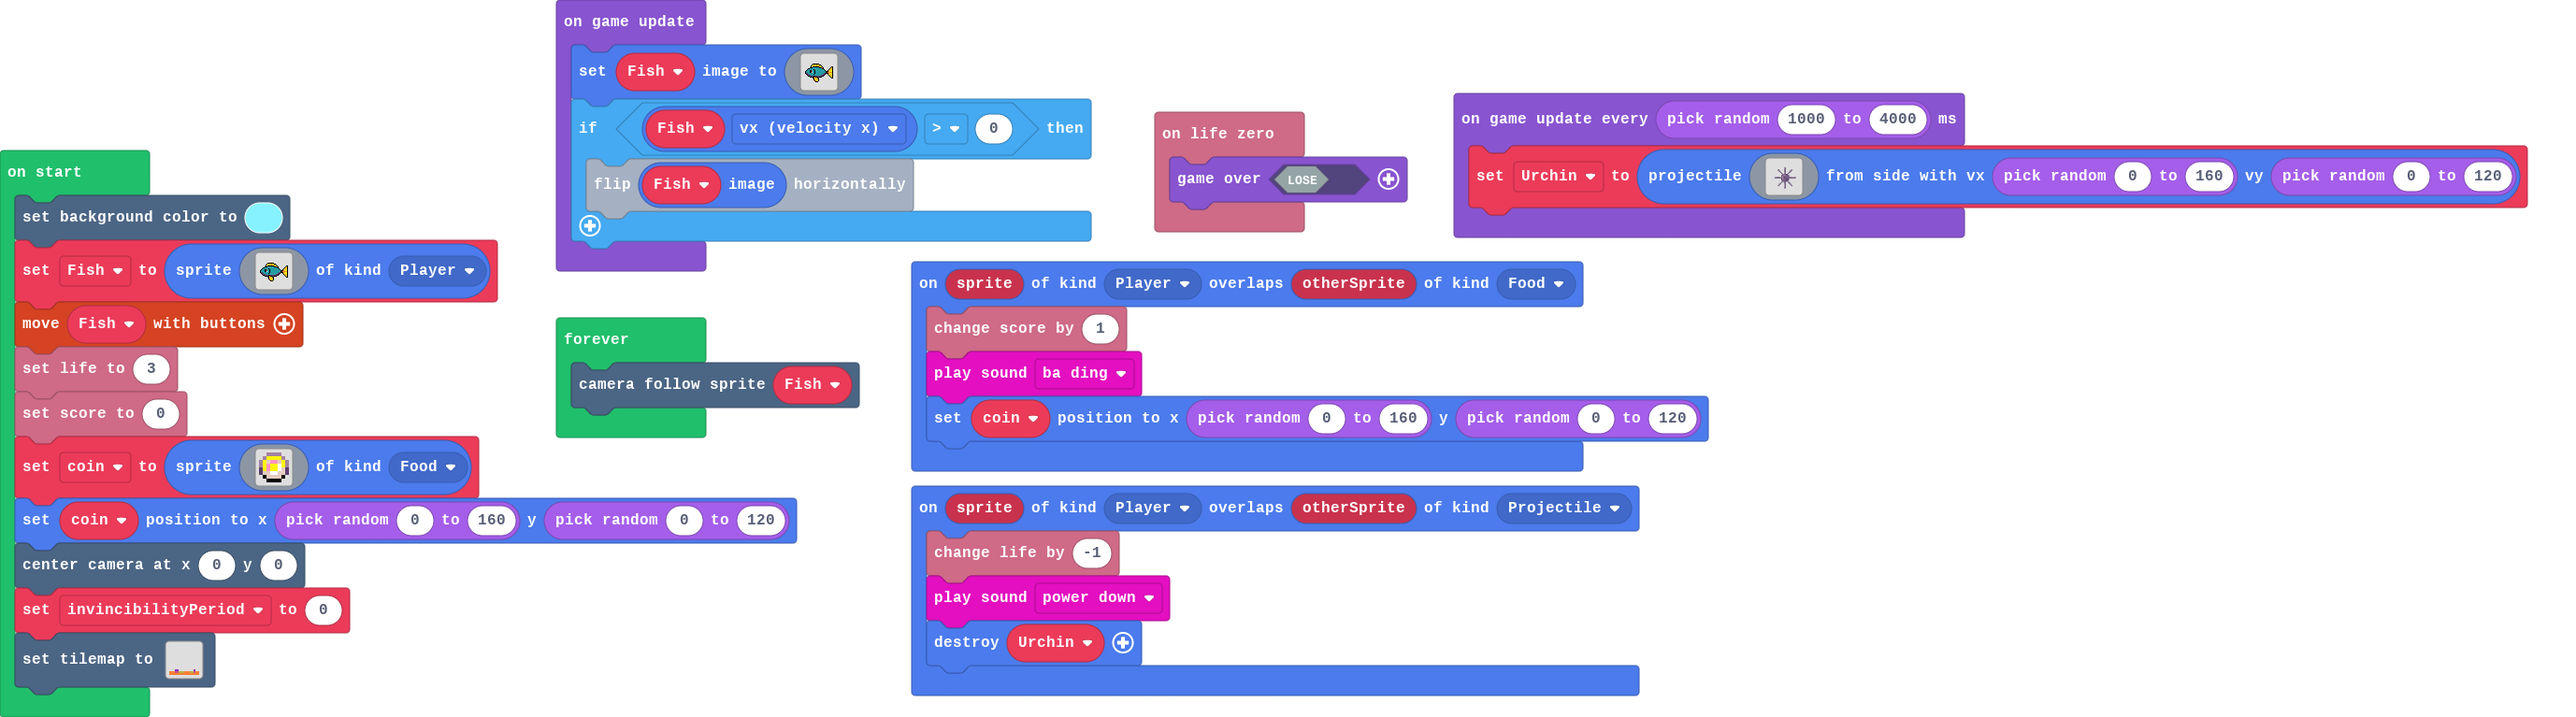
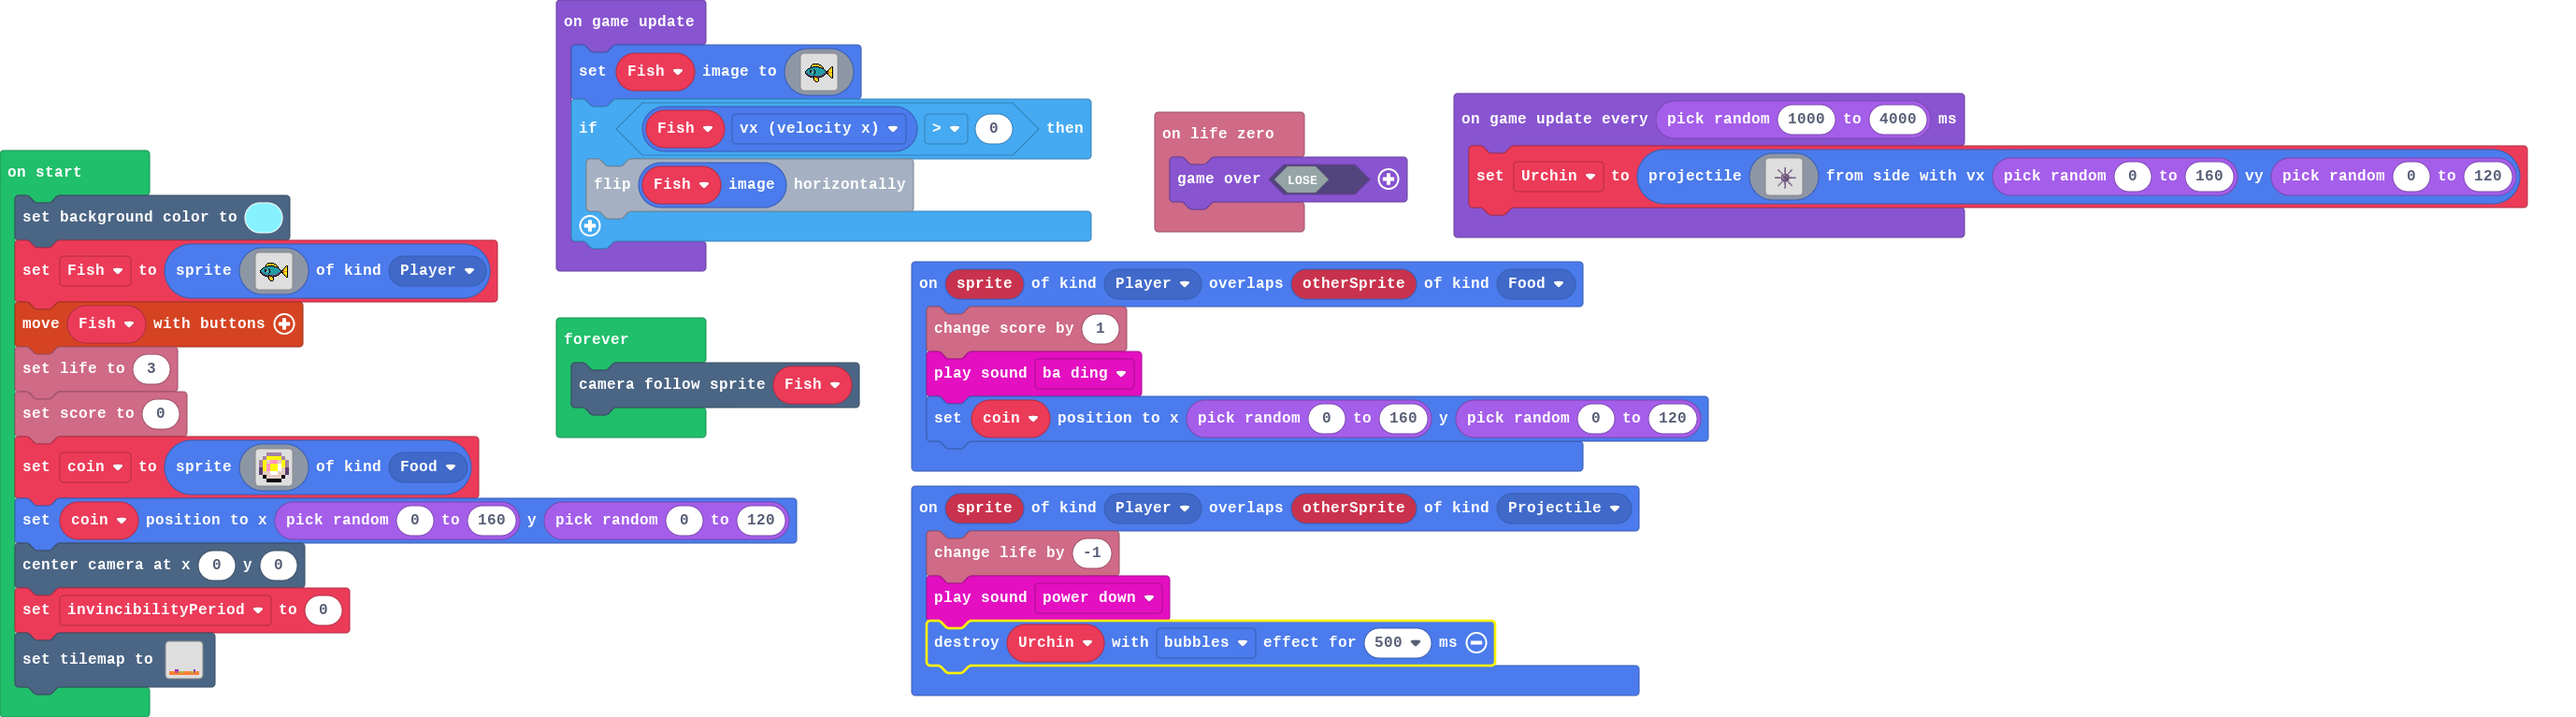
added effect to urchin

Changed region(s): [[0.3746, 0.8396, 0.5931, 0.9296]]

diff --git a/main.ts b/main.ts
@@ -1,7 +1,7 @@
 sprites.onOverlap(SpriteKind.Player, SpriteKind.Projectile, function (sprite, otherSprite) {
     info.changeLifeBy(-1)
     music.powerDown.play()
-    Urchin.destroy()
+    Urchin.destroy(effects.bubbles, 500)
 })
 info.onLifeZero(function () {
     game.over(false)
